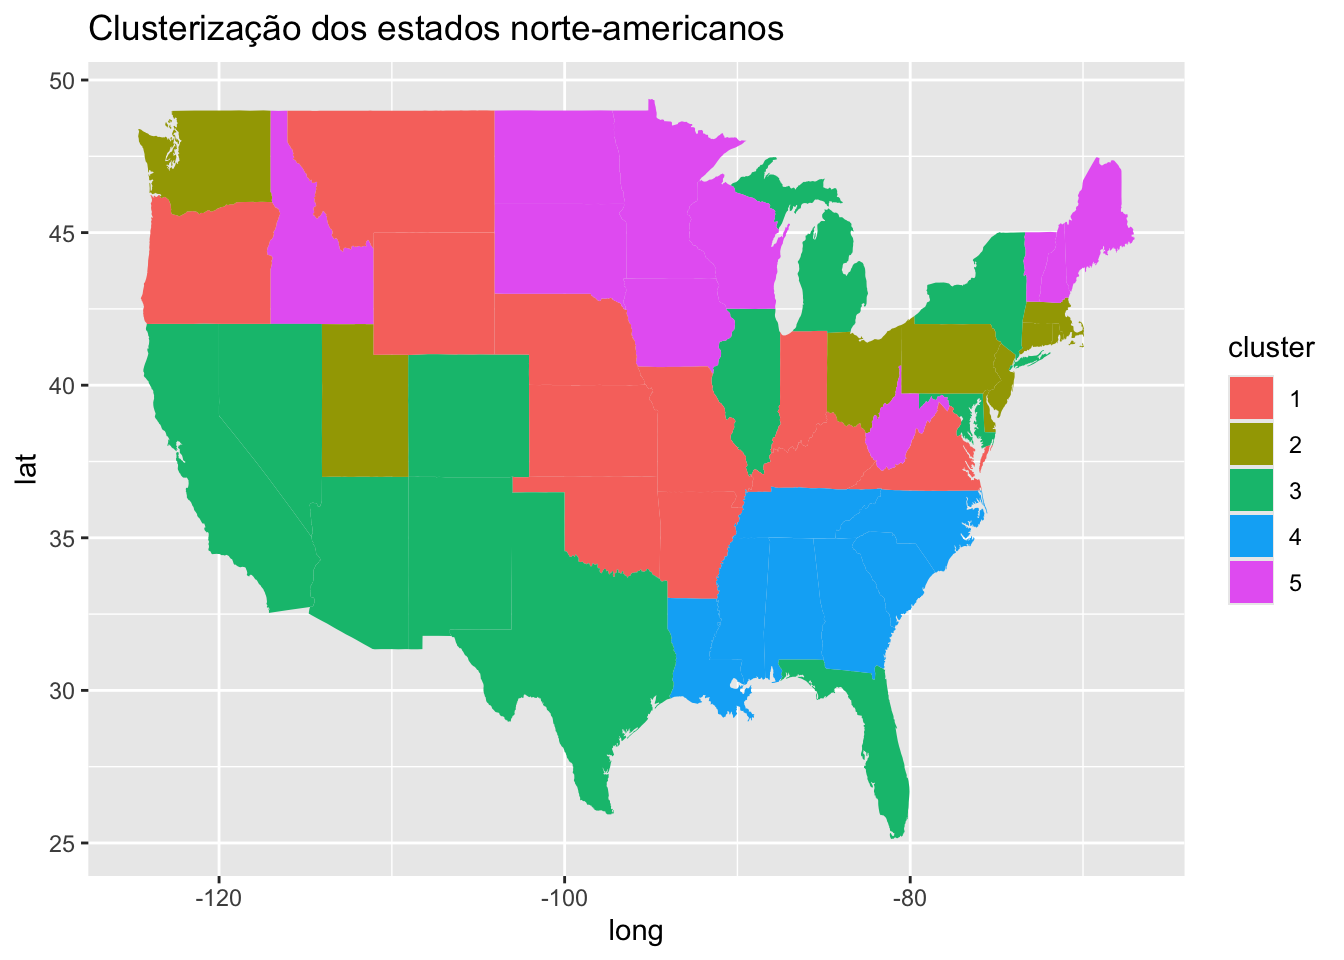
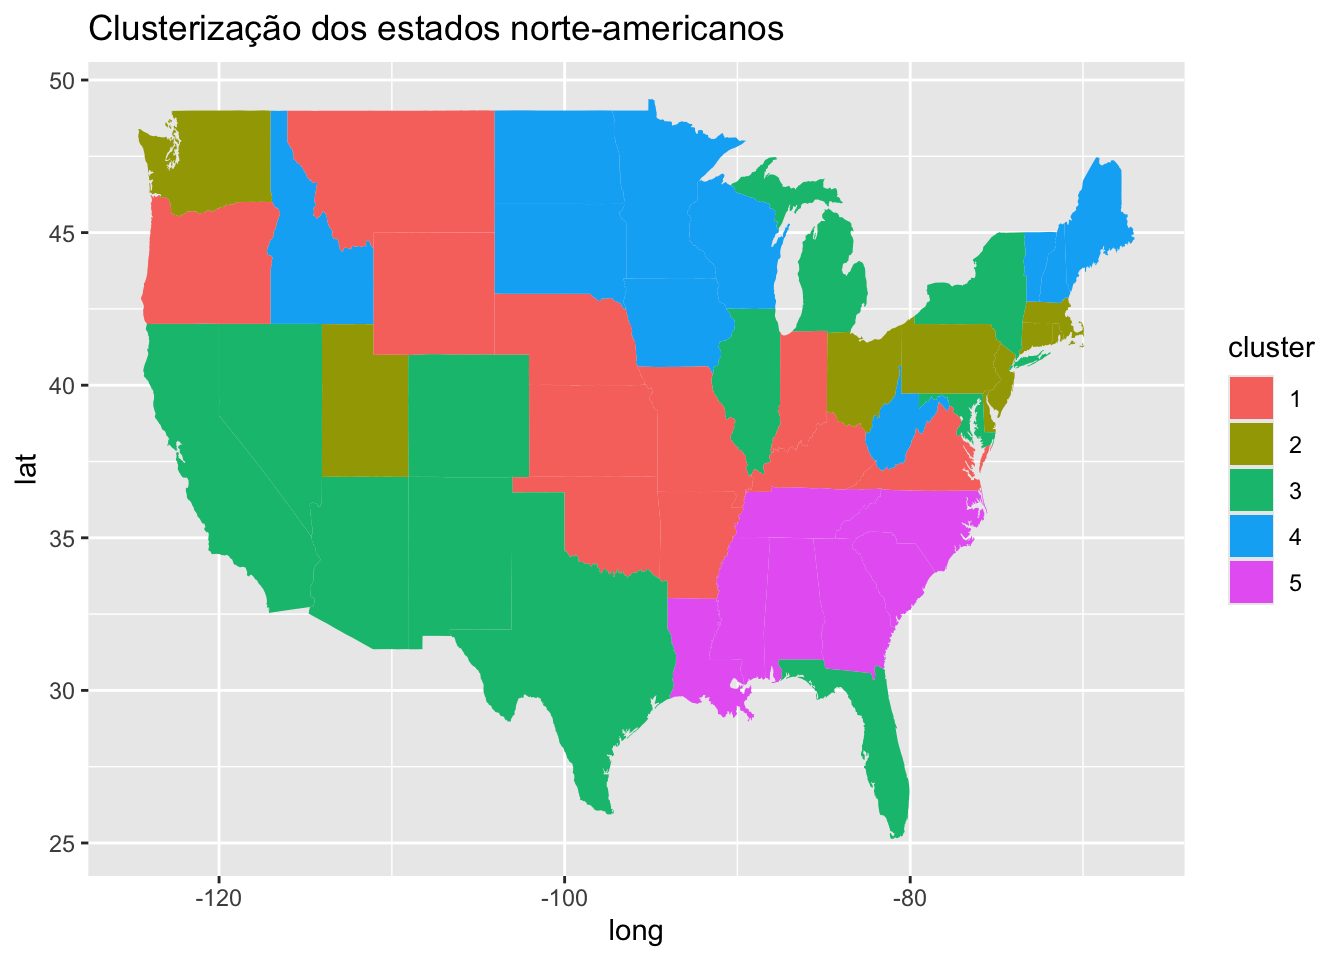
update kmeans

diff --git a/docs/artigos/kmeans/index.html b/docs/artigos/kmeans/index.html
@@ -265,8 +265,9 @@ pre > code.sourceCode > span > a:first-child::before { text-decoration: underlin
 </ul>
 <p>Para esse conjunto de dados, tomaremos nosso ’<em>k’</em> como 5, o número de iterações como 20 e ’<em>nstart’ como 50.</em></p>
 <div class="cell">
-<div class="sourceCode cell-code" id="cb2"><pre class="sourceCode r code-with-copy"><code class="sourceCode r"><span id="cb2-1"><a href="#cb2-1" aria-hidden="true" tabindex="-1"></a>clusterizacao <span class="ot">&lt;-</span> <span class="fu">kmeans</span>(<span class="at">x =</span> dados_padronizados, <span class="at">centers =</span> <span class="dv">5</span>, <span class="at">iter.max =</span> <span class="dv">20</span>, <span class="at">nstart =</span> <span class="dv">50</span>)</span>
-<span id="cb2-2"><a href="#cb2-2" aria-hidden="true" tabindex="-1"></a>clusterizacao</span></code><button title="Copiar para a área de transferência" class="code-copy-button"><i class="bi"></i></button></pre></div>
+<div class="sourceCode cell-code" id="cb2"><pre class="sourceCode r code-with-copy"><code class="sourceCode r"><span id="cb2-1"><a href="#cb2-1" aria-hidden="true" tabindex="-1"></a><span class="fu">set.seed</span>(<span class="dv">123</span>) <span class="co"># para reprodutibilidade</span></span>
+<span id="cb2-2"><a href="#cb2-2" aria-hidden="true" tabindex="-1"></a>clusterizacao <span class="ot">&lt;-</span> <span class="fu">kmeans</span>(<span class="at">x =</span> dados_padronizados, <span class="at">centers =</span> <span class="dv">5</span>, <span class="at">iter.max =</span> <span class="dv">20</span>, <span class="at">nstart =</span> <span class="dv">50</span>)</span>
+<span id="cb2-3"><a href="#cb2-3" aria-hidden="true" tabindex="-1"></a>clusterizacao</span></code><button title="Copiar para a área de transferência" class="code-copy-button"><i class="bi"></i></button></pre></div>
 </div>
 <p>Esse código nos retorna as principais informações sobre o nosso agrupamento, sendo elas: a quantidade de <em>clusters</em> e seus respectivos tamanhos, as médias das variáveis para cada <em>cluster</em>, o vetor indicador da classificação de cada observação, a soma de quadrados dos <em>clusters</em> e uma lista de todos os componentes disponíveis.</p>
 <p>O componente que mais nos interessa é o vetor indicando a qual <em>cluster</em> (de 1 a 5) cada observação do conjunto de dados pertence. Para isso, usamos o código a seguir:</p>
@@ -274,25 +275,25 @@ pre > code.sourceCode > span > a:first-child::before { text-decoration: underlin
 <div class="sourceCode cell-code" id="cb3"><pre class="sourceCode r code-with-copy"><code class="sourceCode r"><span id="cb3-1"><a href="#cb3-1" aria-hidden="true" tabindex="-1"></a>clusterizacao<span class="sc">$</span>cluster</span></code><button title="Copiar para a área de transferência" class="code-copy-button"><i class="bi"></i></button></pre></div>
 <div class="cell-output cell-output-stdout">
 <pre><code>       Alabama         Alaska        Arizona       Arkansas     California 
-             4              3              3              1              3 
+             5              3              3              1              3 
       Colorado    Connecticut       Delaware        Florida        Georgia 
-             3              2              2              3              4 
+             3              2              2              3              5 
         Hawaii          Idaho       Illinois        Indiana           Iowa 
-             2              5              3              1              5 
+             2              4              3              1              4 
         Kansas       Kentucky      Louisiana          Maine       Maryland 
-             1              1              4              5              3 
+             1              1              5              4              3 
  Massachusetts       Michigan      Minnesota    Mississippi       Missouri 
-             2              3              5              4              1 
+             2              3              4              5              1 
        Montana       Nebraska         Nevada  New Hampshire     New Jersey 
-             1              1              3              5              2 
+             1              1              3              4              2 
     New Mexico       New York North Carolina   North Dakota           Ohio 
-             3              3              4              5              2 
+             3              3              5              4              2 
       Oklahoma         Oregon   Pennsylvania   Rhode Island South Carolina 
-             1              1              2              2              4 
+             1              1              2              2              5 
   South Dakota      Tennessee          Texas           Utah        Vermont 
-             5              4              3              2              5 
+             4              5              3              2              4 
       Virginia     Washington  West Virginia      Wisconsin        Wyoming 
-             1              2              5              5              1 </code></pre>
+             1              2              4              4              1 </code></pre>
 </div>
 </div>
 <p>Agora que conseguimos agrupar os estados, criaremos uma coluna em nosso <em>dataframe</em> chamada <em>cluster</em> contendo a classificação de cada observação. Também usaremos a função <em>as.factor()</em> para transformar o vetor em um fator, ou seja, em um dado categórico.</p>
@@ -326,14 +327,14 @@ pre > code.sourceCode > span > a:first-child::before { text-decoration: underlin
 </div>
 <div class="sourceCode cell-code" id="cb12"><pre class="sourceCode r code-with-copy"><code class="sourceCode r"><span id="cb12-1"><a href="#cb12-1" aria-hidden="true" tabindex="-1"></a><span class="fu">rownames</span>(cluster4)</span></code><button title="Copiar para a área de transferência" class="code-copy-button"><i class="bi"></i></button></pre></div>
 <div class="cell-output cell-output-stdout">
-<pre><code>[1] "Alabama"        "Georgia"        "Louisiana"      "Mississippi"   
-[5] "North Carolina" "South Carolina" "Tennessee"     </code></pre>
-</div>
-<div class="sourceCode cell-code" id="cb14"><pre class="sourceCode r code-with-copy"><code class="sourceCode r"><span id="cb14-1"><a href="#cb14-1" aria-hidden="true" tabindex="-1"></a><span class="fu">rownames</span>(cluster5)</span></code><button title="Copiar para a área de transferência" class="code-copy-button"><i class="bi"></i></button></pre></div>
-<div class="cell-output cell-output-stdout">
 <pre><code> [1] "Idaho"         "Iowa"          "Maine"         "Minnesota"    
  [5] "New Hampshire" "North Dakota"  "South Dakota"  "Vermont"      
  [9] "West Virginia" "Wisconsin"    </code></pre>
+</div>
+<div class="sourceCode cell-code" id="cb14"><pre class="sourceCode r code-with-copy"><code class="sourceCode r"><span id="cb14-1"><a href="#cb14-1" aria-hidden="true" tabindex="-1"></a><span class="fu">rownames</span>(cluster5)</span></code><button title="Copiar para a área de transferência" class="code-copy-button"><i class="bi"></i></button></pre></div>
+<div class="cell-output cell-output-stdout">
+<pre><code>[1] "Alabama"        "Georgia"        "Louisiana"      "Mississippi"   
+[5] "North Carolina" "South Carolina" "Tennessee"     </code></pre>
 </div>
 </div>
 <p>Agora que sabemos a qual grupo pertence cada estado, podemos começar a pensar em alguns questionamentos interessantes. Além das taxas de prisões, o que será que esses estados agrupados no mesmo <em>cluster</em> possuem em comum? Será que são estados geograficamente próximos uns dos outros? Será que dividem semelhanças em aspectos socioeconômicos ou no contexto histórico?</p>
